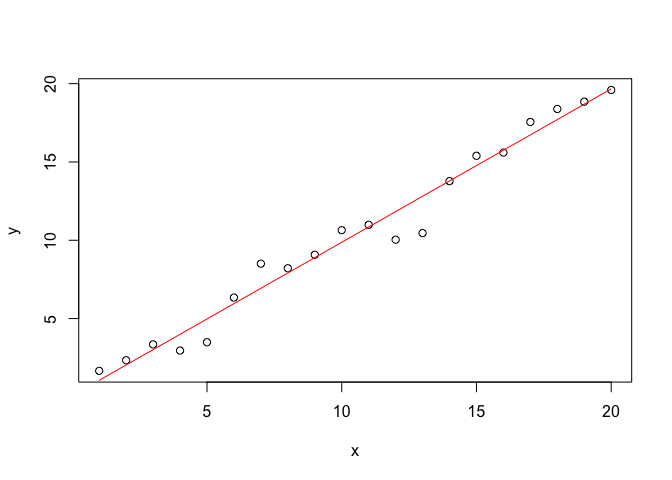
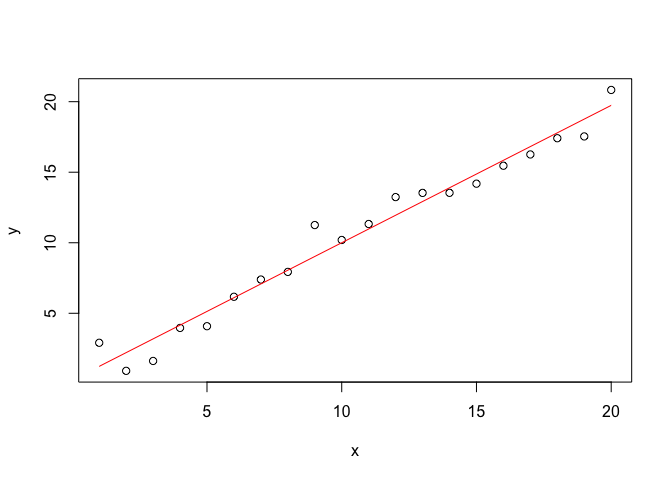
Fix typos

diff --git a/part_01-basic_interactions.md b/part_01-basic_interactions.md
@@ -76,19 +76,19 @@ summary(r)
     ## lm(formula = y ~ x, data = d)
     ## 
     ## Residuals:
-    ##      Min       1Q   Median       3Q      Max 
-    ## -2.35138 -0.08822  0.24190  0.61132  1.57256 
+    ##     Min      1Q  Median      3Q     Max 
+    ## -1.5647 -0.5897 -0.1592  0.4185  2.2271 
     ## 
     ## Coefficients:
     ##             Estimate Std. Error t value Pr(>|t|)    
-    ## (Intercept)  0.07681    0.45867   0.167    0.869    
-    ## x            0.97944    0.03829  25.580 1.33e-15 ***
+    ## (Intercept)  0.26281    0.48005   0.547    0.591    
+    ## x            0.97384    0.04007  24.301 3.26e-15 ***
     ## ---
     ## Signif. codes:  0 '***' 0.001 '**' 0.01 '*' 0.05 '.' 0.1 ' ' 1
     ## 
-    ## Residual standard error: 0.9874 on 18 degrees of freedom
-    ## Multiple R-squared:  0.9732, Adjusted R-squared:  0.9717 
-    ## F-statistic: 654.4 on 1 and 18 DF,  p-value: 1.326e-15
+    ## Residual standard error: 1.033 on 18 degrees of freedom
+    ## Multiple R-squared:  0.9704, Adjusted R-squared:  0.9688 
+    ## F-statistic: 590.5 on 1 and 18 DF,  p-value: 3.259e-15
 
 ``` r
 # clean up
@@ -304,7 +304,7 @@ ls()
 
     ## [1] "fmol_to_abs" "N_fmol"
 
-Note that even if we had\_assigned the same symbol `N_Avogrado = 1` in
+Note that even if we had assigned the same symbol `N_Avogrado = 1` in
 the ‘Global Environment’, our function *would still prioritize* the
 ‘locally’ defined symbol `N_Avogrado`, which is `6.022e23`. Only if we
 had *not* defined this variable *inside* the function, R would start
@@ -327,7 +327,7 @@ fmol_to_abs(N_fmol)
 
     ## [1] 1204400000
 
-It is possible to make the the return value of the function dependend on
+It is possible to make the return value of the function dependend on
 additional parameters, so that the function can be applied to different,
 yet similar problems. If a function takes a number of parameters, it can
 be convenient to assign default values to some arguments.
@@ -415,8 +415,8 @@ packages.
 If you intend to use only a single function from a package (and do not
 want to attach the entire namespace), or if there are functions with the
 same name from different packages loaded, you must be more explicit and
-prefix the function call with the package name separated by `::`, e.g.
-`magrittr::divide_by(...)`.
+prefix the function call with the package name separated by `::`,
+e.g. `magrittr::divide_by(...)`.
 
 > When you load a package with conflicting names, R will print a warning
 > message.
